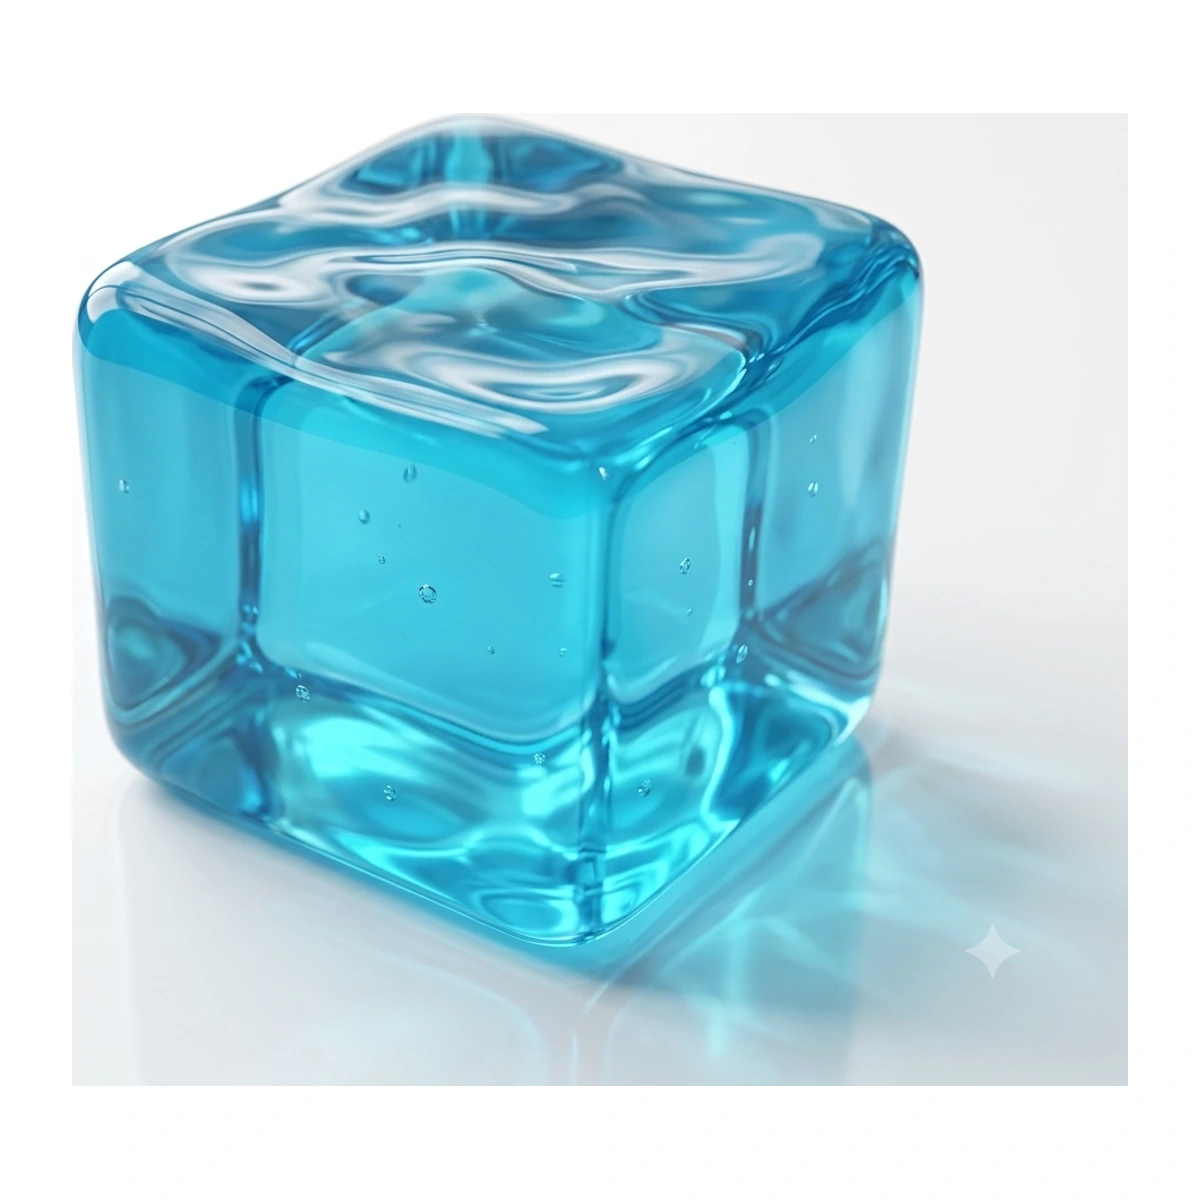
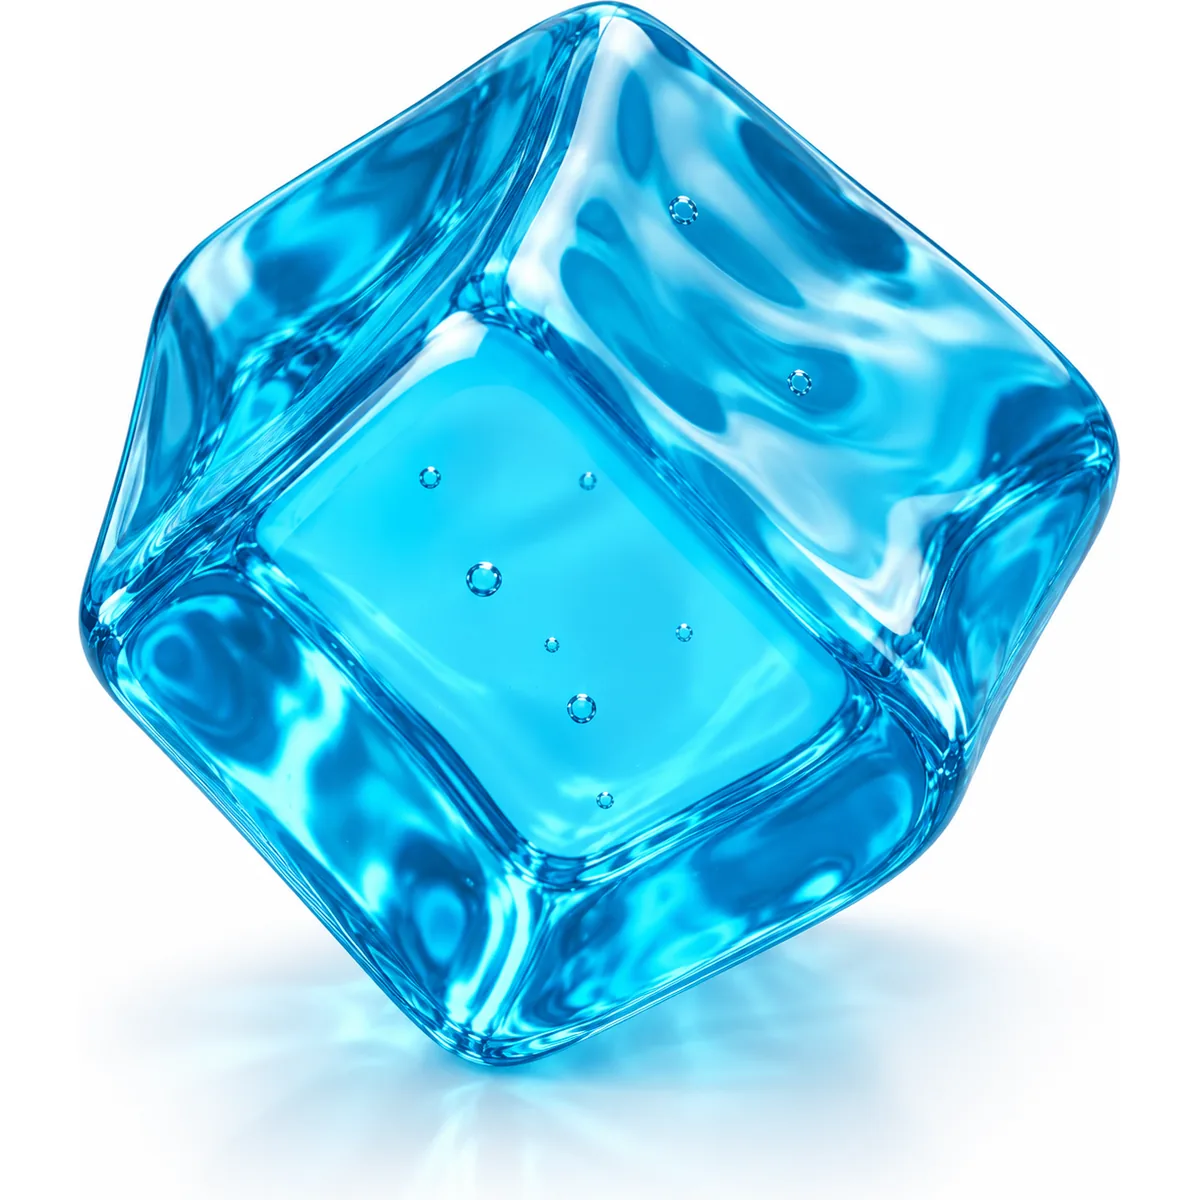
The Rounded Cube leads on the tilted shot
Its source art was replaced, so the derivative follows it — the site does not
read design/, and a source that has moved on from the file built out of it is
the one state that folder's README says must not be left standing.

The cube now stands on a corner rather than sitting flat. It is a livelier shot
and, more usefully, it is not a near-copy of the two solo frames behind it in
the rail: the packshot is also the card, the share preview and the cart
thumbnail, so it is the one that has to be worth looking at on its own.

Same trim → square → 6% pad → WebP as the rest of the folder. Alt text follows
the picture.

diff --git a/frontend/src/content/site.ts b/frontend/src/content/site.ts
@@ -164,7 +164,7 @@ export const site = {
         images: [
           {
             src: "/products/blue-block.webp",
-            alt: "The Rounded Cube squishy: a translucent blue cube with softly rounded corners.",
+            alt: "The Rounded Cube squishy tipped onto one corner: a translucent blue cube with softly rounded edges.",
           },
           {
             src: "/products/blue-block-2.webp",
